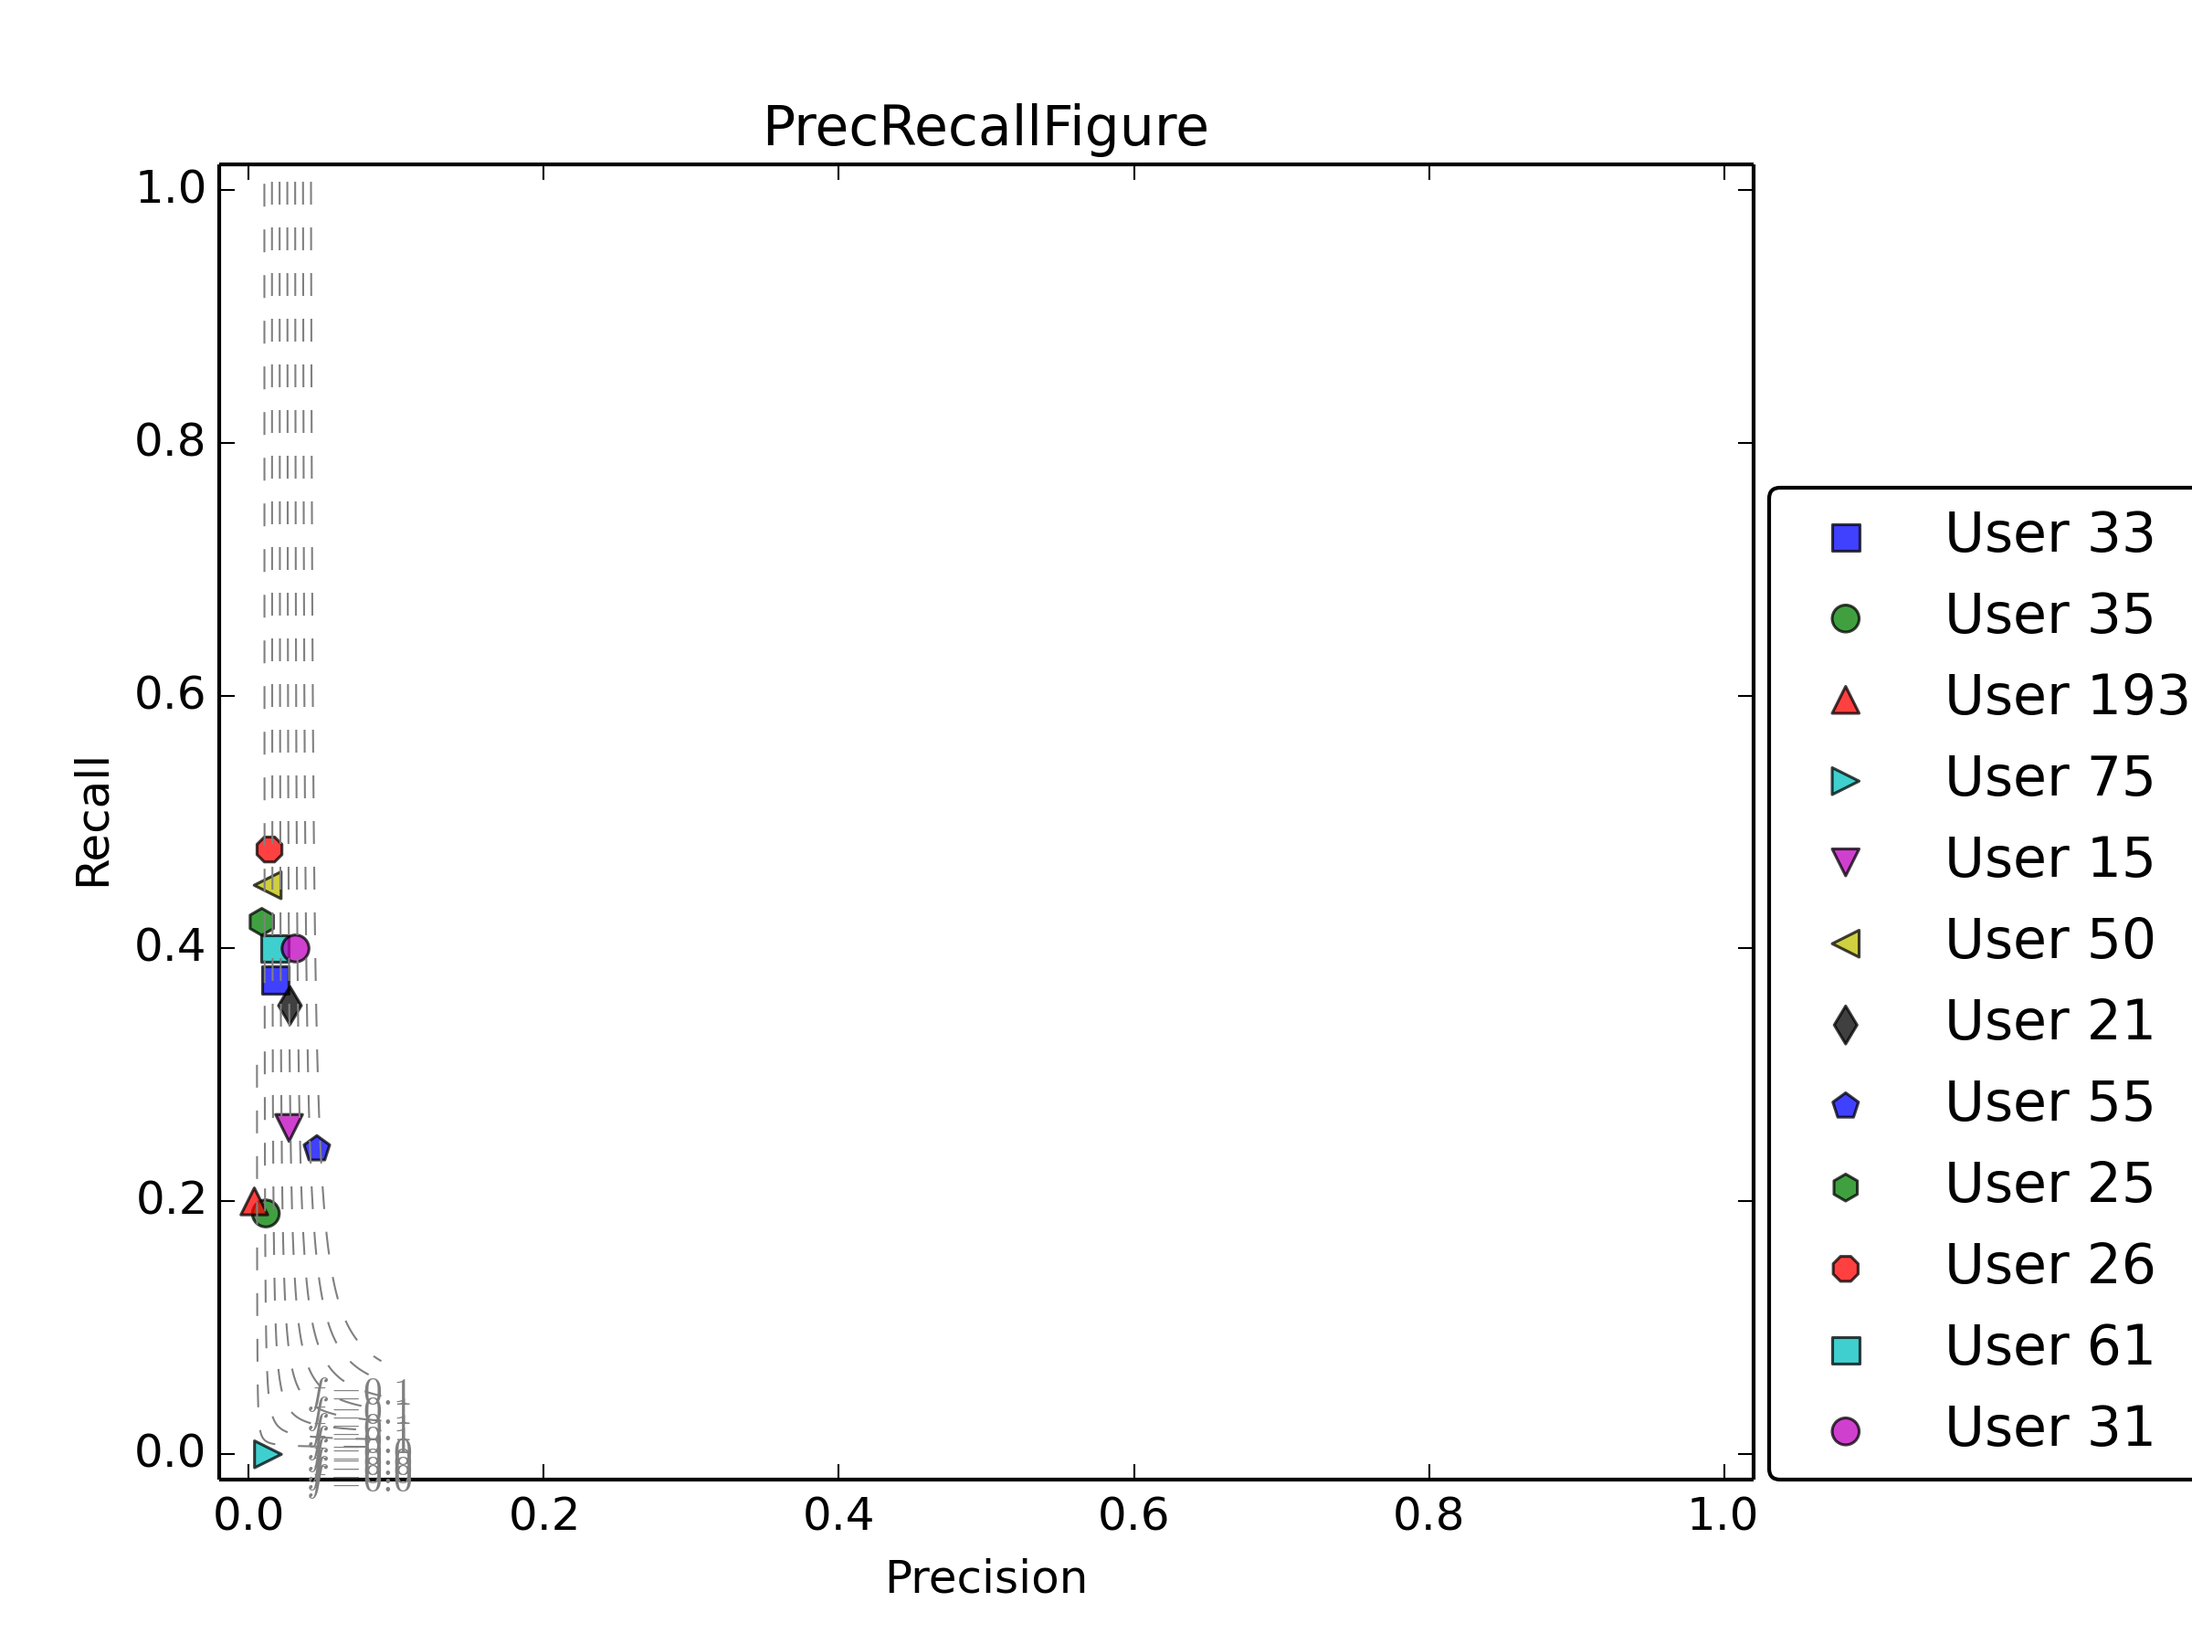
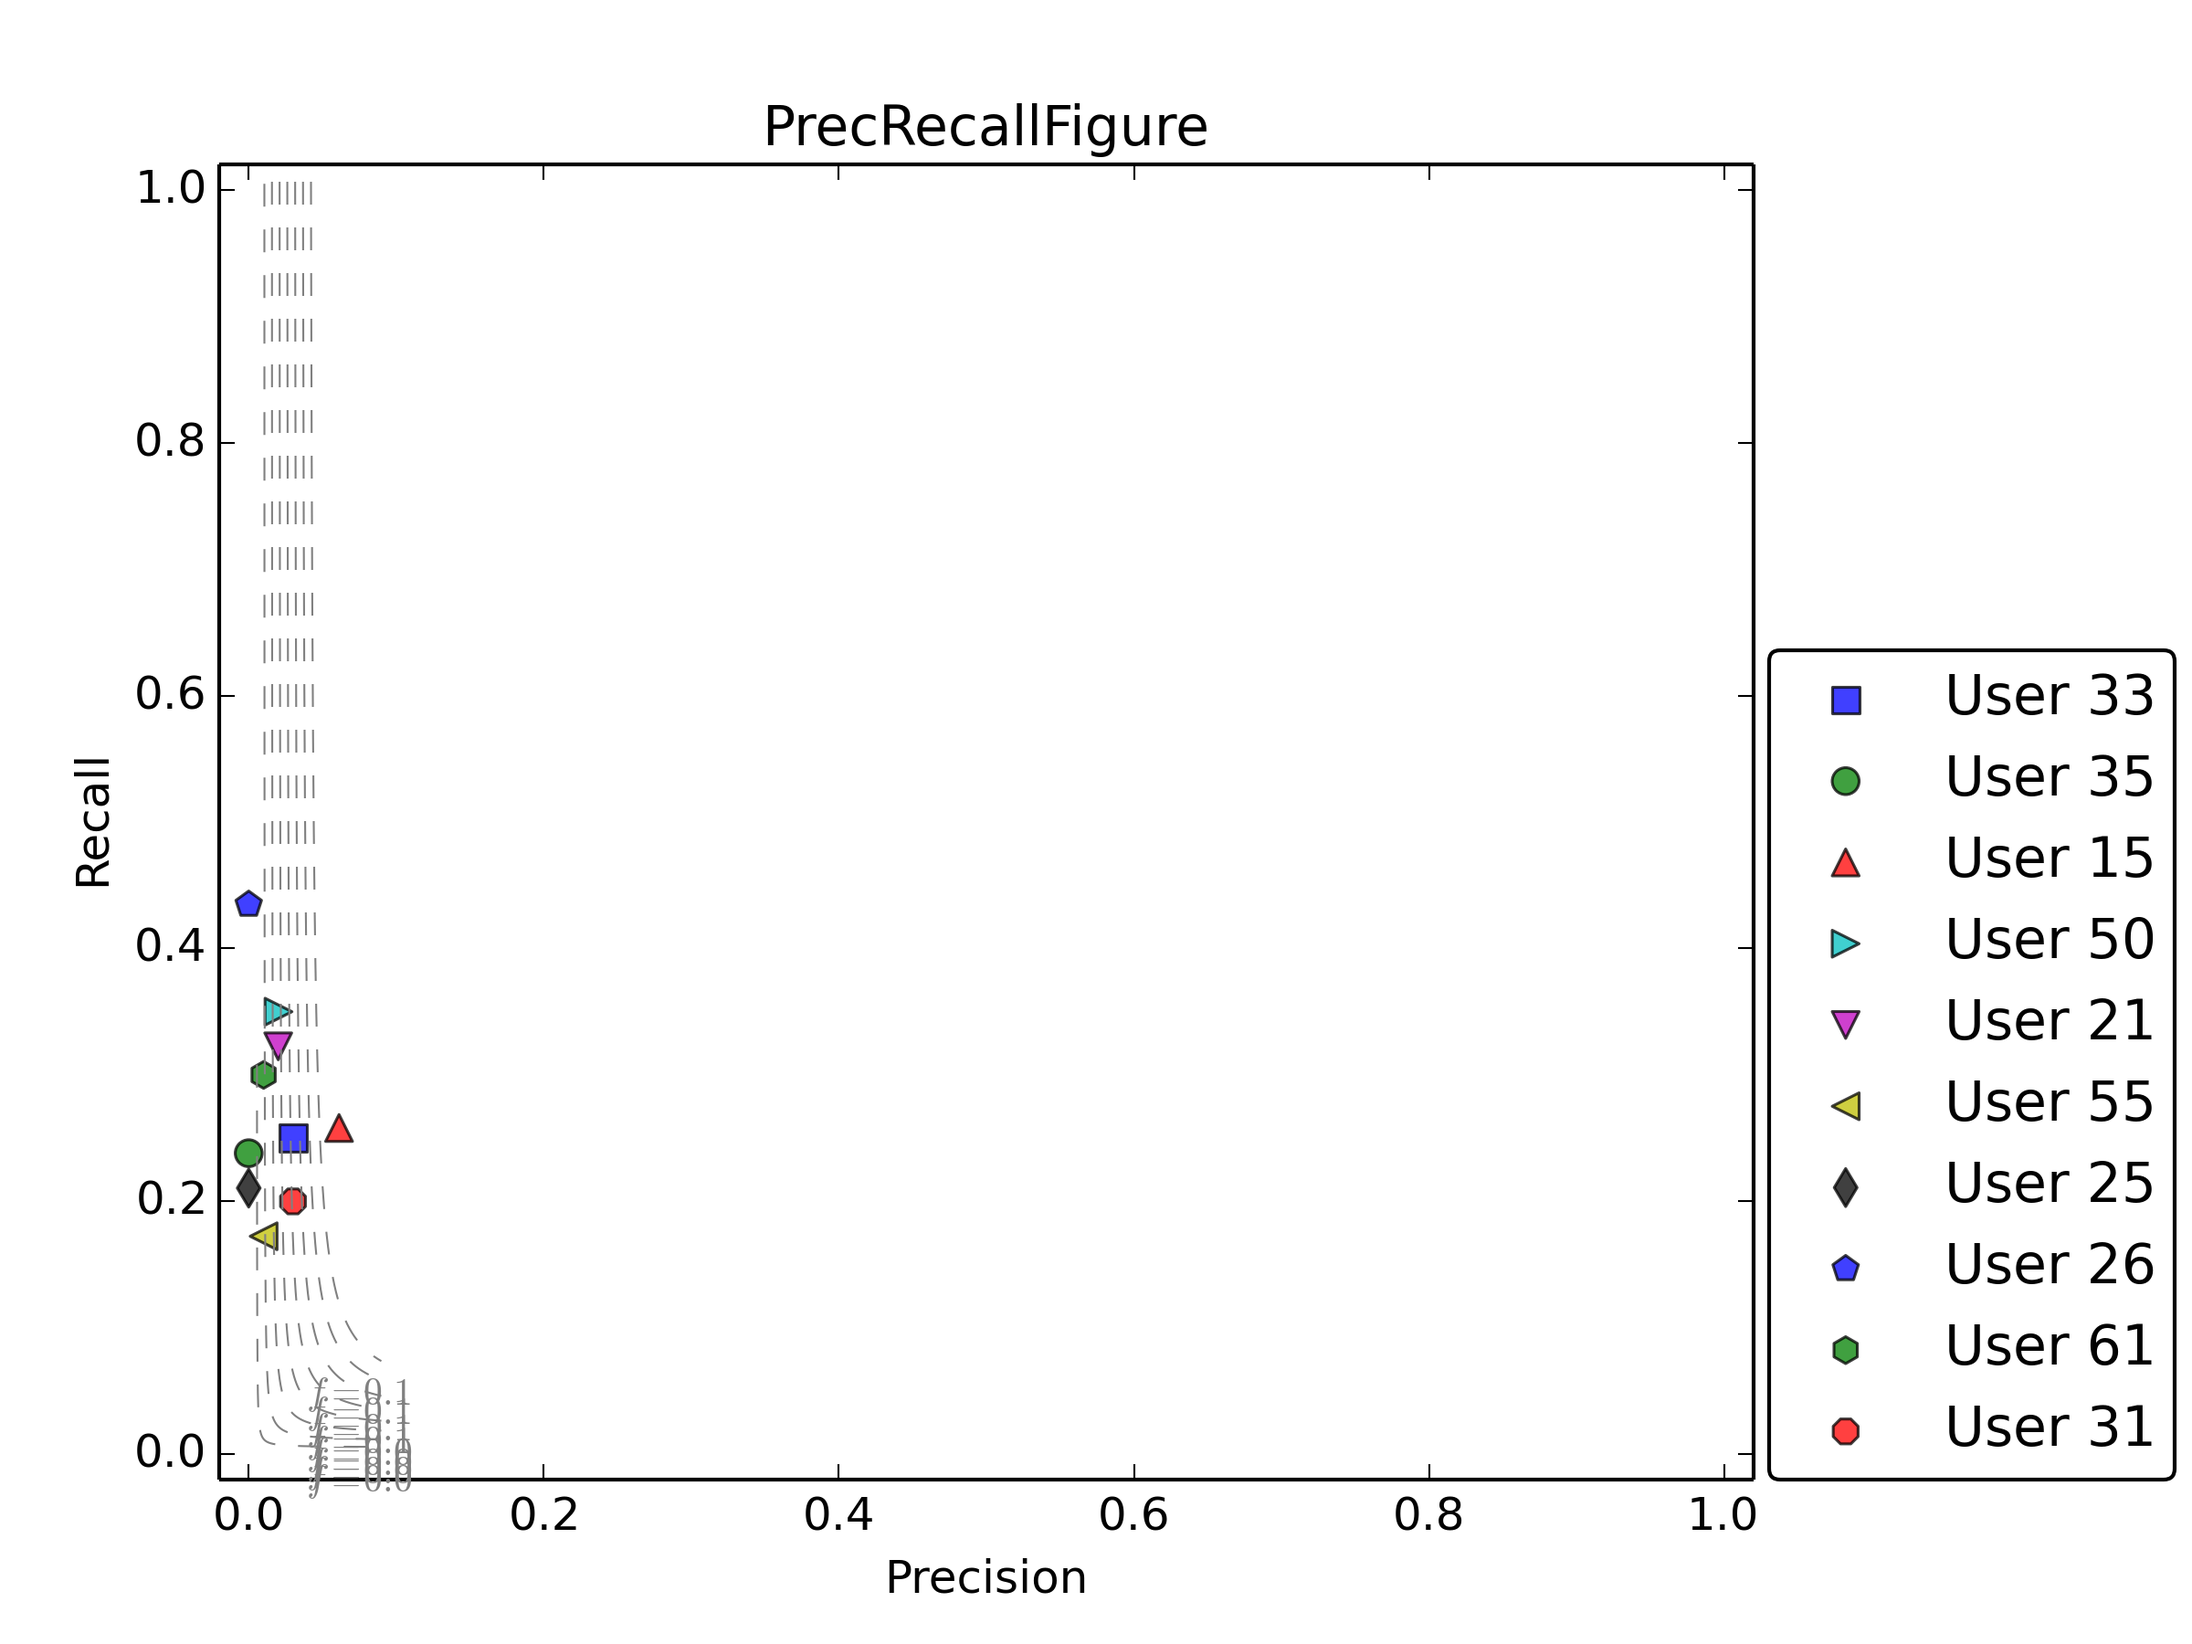
Evaluate on top 100

diff --git a/app/algorithm/cars/info_gain/info_gain_recommender.py b/app/algorithm/cars/info_gain/info_gain_recommender.py
@@ -16,6 +16,7 @@ from app.utils.similarities import sim_euclidean, sim_pearson
 RATING = 0 # Holds the index of rating in user preference array
 OPTIMUM = 3.5 # Optimum rating for recommendation > 3.5
 VERBOSE = True
+TOP_N_EVALUATION = 500
 
 class InfoGainRecommender(ContextRecommender):
     def __init__(self, data_object):
@@ -47,7 +48,7 @@ class InfoGainRecommender(ContextRecommender):
         train_udb, test_udb = self.__remove_for_testing(self.dao.users, user)
         recs = self.__user_cf_recs(train_udb, user)
 
-        precision_train = precision(user, recs, test_udb)
+        precision_train = precision(user, recs[0:100], test_udb, self.dao.users)
         recall_train = recall(user, recs, test_udb)
         fscore_train = f1score(precision_train, recall_train)
 
@@ -60,7 +61,7 @@ class InfoGainRecommender(ContextRecommender):
 
         filter_recs = self.__contextual_filter(self.dao.users, self.userprofile, user, recs, self.filters)
 
-        precision_test = precision(user, filter_recs, test_udb)
+        precision_test = precision(user, filter_recs[0:100], test_udb, self.dao.users)
         recall_test = recall(user, filter_recs, test_udb)
         fscore_test = f1score(precision_test, recall_test)
         if VERBOSE:
@@ -97,7 +98,7 @@ class InfoGainRecommender(ContextRecommender):
             sim = similarity(prefs, person, other)
             if sim <= 0: continue
             for item in prefs[other]:
-                if item not in prefs[person] or prefs[person][item][RATING] == 0:
+                if item not in prefs[person] or prefs[person][item][RATING] >= 0:
                     totals.setdefault(item, 0)
                     totals[item] += prefs[other][item][RATING] * sim
                     # Similarity sums
@@ -106,8 +107,9 @@ class InfoGainRecommender(ContextRecommender):
         rankings = [(total / simSum[item], item) for item, total in totals.items()]
         # Testing: Checking if ratings match with that in dataset
         rankings.sort()
-        rankings.reverse()
-        return rankings
+        best_ranking = [(rating, item) for rating, item in rankings if rating >= OPTIMUM]
+        best_ranking.reverse()
+        return best_ranking[0:TOP_N_EVALUATION]
 
     # TODO Add Item Based CF
 
@@ -182,7 +184,7 @@ class InfoGainRecommender(ContextRecommender):
                         # we will reject the movie.
                         if max_ctx_value == filter_ctx_value and (rating, movie) not in filtered_recs:
                             filtered_recs.append((rating, movie))
-        return filtered_recs
+        return filtered_recs[0:TOP_N_EVALUATION]
 
     def __find_max_context(self, movie, context, udb):
         """

diff --git a/app/algorithm/cars/info_gain/evaluation.py b/app/algorithm/cars/info_gain/evaluation.py
@@ -1,21 +1,72 @@
 RATING = 0 # Holds the index of rating in user preference array
 OPTIMUM = 3.5 # Optimum rating for recommendation > 3.5
 
-def precision(user, recommendations, udb):
+"""
+TBD: broad classes of prediction accuracy measures; measuring
+the accuracy of ratings predictions, measuring the accuracy of usage predictions,
+and measuring the accuracy of rankings of items.
+
+Measuring Ratings Prediction Accuracy:
+    - Root Mean Squared Error (RMSE)
+    - Mean Absolute Error (MAE)
+    - Normalized RMSE (NMRSE)
+    - Average RMSE
+Measuring Usage Prediction:
+    - Precision
+    - Recall
+    - False Positive Rate
+    - F-measure
+    - Area Under the ROC Curve (AUC)
+    - Precision-Recall and ROC for Multiple Users
+Ranking Measures
+    - Normalized Distance based Performance Measure (NDPM)
+    - average precision (AP) correlation
+    - Utility-Based Ranking
+
+
+"""
+
+
+def precision(user, recommendations, udb, all_udb):
     """
     recommendations: generated by get_recommendations
     udb: test udb
+
+    precision = #tp / #tp + #fp
+    where:
+        #tp => Recommended and Used
+        #fp => Recommended and not Used
     """
-    all = len(recommendations) + 0.00000000000000000001
+    all = len(recommendations) + 0.00000000000000000001 # === tp + fp
     tp = 0
-    for (x, y) in recommendations:
+    fp = 0
+    for (rec_rating, rec_movie) in recommendations:
         for movie in udb[user].keys():
-            if movie == y and (round(x) - 1 <= udb[user][movie][RATING] <= round(x) + 1):
+            if movie == rec_movie and (round(rec_rating) - 1 <= udb[user][movie][RATING] <= round(rec_rating) + 1):
                 tp += 1
-    #print tp, all
-    return tp/float(all)
+        if rec_movie not in udb[user].keys():
+            fp += 1
+
+    print "User: ", user
+    print "\t**TP, all***"
+    print "\t", tp, ",", all
+    print "\t**End TP, all***"
+    print "\t fp= ", fp
+    return tp/float(tp + fp + 0.00000000000000000001)
 
 def recall(user, recommendations, udb):
+    """
+    :param user:
+    :param recommendations:
+    :param udb:
+    :return:
+
+
+    recall = #tp / #tp + #fn
+    where:
+        #tp => Recommended and Used
+        #fn => Not recommended but Used
+    """
     tp = 0
     good_movies = 0
     for movie in udb[user].keys():
@@ -24,6 +75,10 @@ def recall(user, recommendations, udb):
             for (x, y) in recommendations:
                 if movie == y:
                     tp += 1
+
+    print "**\tTP, good movies***"
+    print "\t", tp, good_movies
+    print "**\tEnd TP, good movies***"
     return tp/float(good_movies)
 
 def f1score(precision, recall):

diff --git a/app/app.py b/app/app.py
@@ -12,6 +12,12 @@ def main():
     recommender = InfoGainRecommender(data_object)
     recommender.run()
     recommender.generate_graphs()
-    # recommender.evaluate(75)
+    # recommender.evaluate(61)
+    # print "next\n"
+    # recommender.evaluate(55)
+    # print "next\n"
+    # recommender.evaluate(33)
+
+
     # print recommender.top_recommendations(193)
 if __name__ == "__main__": main()
